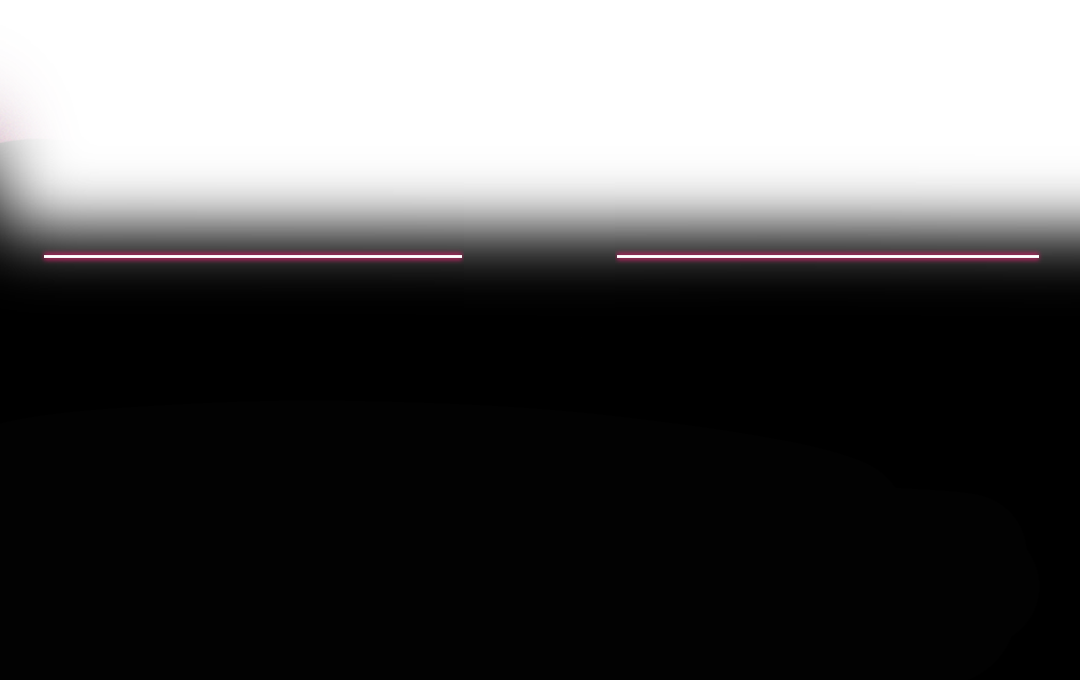
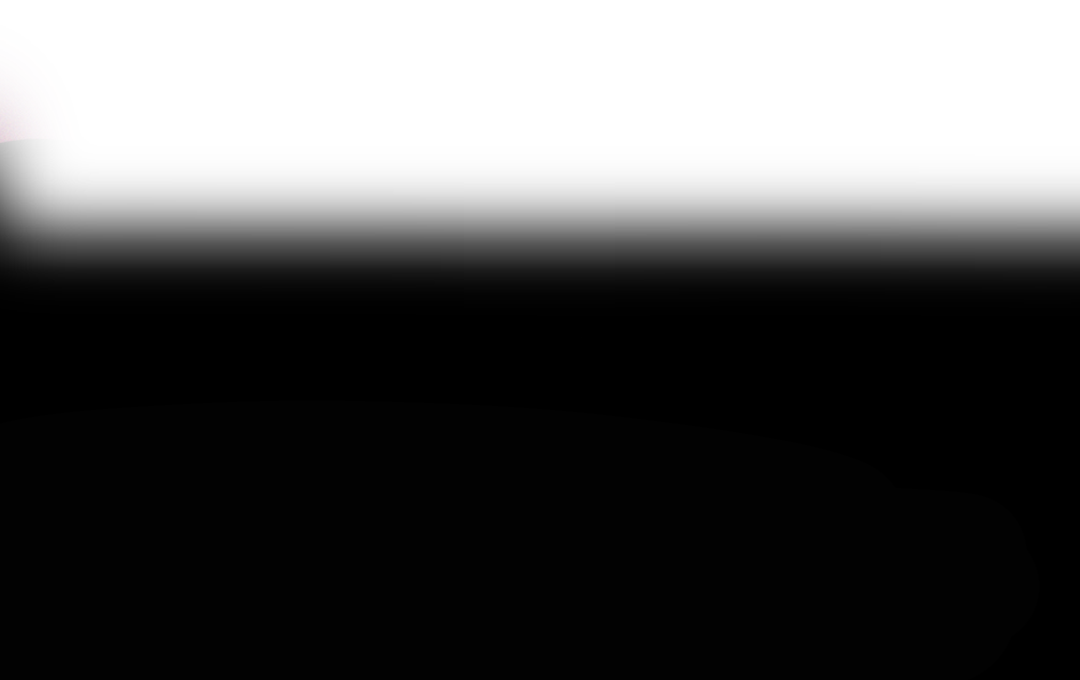
El halo de los filetes toma el color de la vertical
Cada filete es un nucleo blanco de 3 px mas un halo, y ese halo resulto
ser el rosa #cc1c65 a opacidad variable. Sale del overlay a dos mascaras
de 1080x25 (1,5 KB entre las dos): el halo se tiñe con source-in en un
lienzo auxiliar y el nucleo se pinta encima sin tocar.

La descomposicion va en premultiplicado. Hecha sobre el color recto el
halo salia un 10% mas claro, porque la mezcla con el fondo ocurre en
premultiplicado; con los valores correctos la banda reproduce el PSD con
1,84/255 de diferencia media, el mismo orden que antes del cambio.

Changed region(s): [[0.55, 0.3706, 0.9778, 0.4015], [0.0306, 0.3706, 0.4278, 0.4015]]

diff --git a/src/main.ts b/src/main.ts
@@ -4,6 +4,8 @@ import logoDeportes from "./assets/logo-deportes.png";
 import logoGamer from "./assets/logo-gamer.png";
 import logoMotor from "./assets/logo-motor.png";
 import logoPeludos from "./assets/logo-peludos.png";
+import ruleCoreUrl from "./assets/rule-core.png";
+import ruleGlowUrl from "./assets/rule-glow.png";
 import {
   CANVAS_H,
   CANVAS_W,
@@ -17,6 +19,7 @@ import {
   BADGE_SIZE,
   PHOTO_H,
   SWATCHES,
+  VERTICALS,
   type VerticalId,
   ZOOM_MAX,
   ZOOM_MIN,
@@ -75,6 +78,8 @@ if (!previewCtx || !resultCtx || !miniCtx) throw new Error("Este navegador no so
 let photo: HTMLImageElement | null = null;
 let photoSize: { width: number; height: number } | null = null;
 let overlay: HTMLImageElement | null = null;
+let ruleGlow: HTMLImageElement | null = null;
+let ruleCore: HTMLImageElement | null = null;
 const transform: PhotoTransform = { zoom: 1, offsetX: 0, offsetY: 0 };
 let inset: Inset | null = null;
 
@@ -103,6 +108,12 @@ function currentVertical(): VerticalId {
   return verticalEl.value as VerticalId;
 }
 
+/** Color de marca de la vertical elegida, para el halo de los filetes. */
+function currentColor(): string {
+  const v = VERTICALS.find((x) => x.id === currentVertical());
+  return v?.color ?? VERTICALS[0].color;
+}
+
 function loadImage(src: string): Promise<HTMLImageElement> {
   return new Promise((resolve, reject) => {
     const img = new Image();
@@ -113,12 +124,15 @@ function loadImage(src: string): Promise<HTMLImageElement> {
 }
 
 function draw(): void {
-  if (!overlay) return;
+  if (!overlay || !ruleGlow || !ruleCore) return;
   render(previewCtx!, {
     photo,
     photoSize,
     transform,
     overlay,
+    ruleGlow,
+    ruleCore,
+    ruleColor: currentColor(),
     logo: logos.get(currentVertical()) ?? null,
     logoSize: currentVertical() === "cabronazi" ? null : BADGE_SIZE,
     inset,
@@ -600,7 +614,7 @@ function stamp(): string {
 }
 
 generateEl.addEventListener("click", () => {
-  if (!overlay) return;
+  if (!overlay || !ruleGlow || !ruleCore) return;
   if (!photo) {
     setStatus("Añade una imagen antes de generar.", "error");
     return;
@@ -614,6 +628,9 @@ generateEl.addEventListener("click", () => {
     photoSize,
     transform,
     overlay,
+    ruleGlow,
+    ruleCore,
+    ruleColor: currentColor(),
     logo: logos.get(currentVertical()) ?? null,
     logoSize: currentVertical() === "cabronazi" ? null : BADGE_SIZE,
     inset,
@@ -648,13 +665,17 @@ downloadEl.addEventListener("click", () => {
 async function boot(): Promise<void> {
   buildSwatches();
   markSwatches();
-  const [ov, ...cargados] = await Promise.all([
+  const [ov, glow, core, ...cargados] = await Promise.all([
     loadImage(overlayUrl),
+    loadImage(ruleGlowUrl),
+    loadImage(ruleCoreUrl),
     ...Object.entries(LOGO_URLS).map(async ([id, url]) => {
       logos.set(id as VerticalId, await loadImage(url));
     }),
   ]);
   overlay = ov as HTMLImageElement;
+  ruleGlow = glow as HTMLImageElement;
+  ruleCore = core as HTMLImageElement;
   void cargados;
   // Sin esperar a la fuente, el primer render saldria con la tipografia de respaldo.
   try {

diff --git a/src/render.ts b/src/render.ts
@@ -15,6 +15,8 @@ import {
   LINE_RATIO,
   OVERLAY_Y,
   PHOTO_H,
+  RULE_H,
+  RULE_Y,
   TEXT_MAX_W,
   TEXT_SAFE_BOTTOM,
   TEXT_SAFE_TOP,
@@ -53,6 +55,11 @@ export interface RenderOptions {
   photoSize: { width: number; height: number } | null;
   transform: PhotoTransform;
   overlay: CanvasImageSource;
+  /** Mascaras de los filetes: halo teñible y nucleo blanco fijo. */
+  ruleGlow: CanvasImageSource;
+  ruleCore: CanvasImageSource;
+  /** Color del halo de los filetes: el de la vertical elegida. */
+  ruleColor: string;
   /** Logo de la vertical. Va aparte del overlay para poder cambiarlo. */
   logo: CanvasImageSource | null;
   /** Lado del logo, o null para dejar la mascota a su tamaño original. */
@@ -265,6 +272,39 @@ function drawInset(
   ctx.restore();
 }
 
+/** Lienzo auxiliar donde se tiñe el halo. Se reaprovecha entre pintadas. */
+let tintCanvas: HTMLCanvasElement | null = null;
+
+/**
+ * Pinta los dos filetes. El halo es una mascara que se tiñe con el color de la
+ * vertical; el nucleo blanco va encima y no cambia nunca.
+ */
+function drawRules(
+  ctx: CanvasRenderingContext2D,
+  glow: CanvasImageSource,
+  core: CanvasImageSource,
+  color: string,
+): void {
+  tintCanvas ??= document.createElement("canvas");
+  const t = tintCanvas;
+  if (t.width !== CANVAS_W || t.height !== RULE_H) {
+    t.width = CANVAS_W;
+    t.height = RULE_H;
+  }
+  const tc = t.getContext("2d");
+  if (!tc) return;
+  tc.clearRect(0, 0, CANVAS_W, RULE_H);
+  tc.globalCompositeOperation = "source-over";
+  tc.drawImage(glow, 0, 0, CANVAS_W, RULE_H);
+  // "source-in" cambia el color conservando el alfa: eso tiñe la mascara.
+  tc.globalCompositeOperation = "source-in";
+  tc.fillStyle = color;
+  tc.fillRect(0, 0, CANVAS_W, RULE_H);
+
+  ctx.drawImage(t, 0, RULE_Y, CANVAS_W, RULE_H);
+  ctx.drawImage(core, 0, RULE_Y, CANVAS_W, RULE_H);
+}
+
 /** Pinta la noticia completa en el contexto dado, a tamaño 1080x1350. */
 export function render(ctx: CanvasRenderingContext2D, opts: RenderOptions): void {
   ctx.save();
@@ -286,6 +326,8 @@ export function render(ctx: CanvasRenderingContext2D, opts: RenderOptions): void
   if (opts.inset) drawInset(ctx, opts.inset, opts.colorRing);
 
   ctx.drawImage(opts.overlay, 0, OVERLAY_Y, CANVAS_W, CANVAS_H - OVERLAY_Y);
+
+  drawRules(ctx, opts.ruleGlow, opts.ruleCore, opts.ruleColor);
 
   if (opts.logo) {
     ctx.imageSmoothingEnabled = true;

diff --git a/src/format.ts b/src/format.ts
@@ -105,16 +105,26 @@ export const LOGO_CY = LOGO_Y + LOGO_H / 2;
  */
 export const BADGE_SIZE = LOGO_H;
 
-/** Las verticales, en el orden en que salen en el desplegable. */
+/**
+ * Las verticales, en el orden en que salen en el desplegable. El color es el
+ * dominante de cada logo, y tiñe tambien el halo de los filetes.
+ */
 export const VERTICALS = [
-  { id: "cabronazi", label: "Cabronazi" },
-  { id: "peludos", label: "Cabropeludos" },
-  { id: "gamer", label: "Cabrogamer" },
-  { id: "deportes", label: "Cabrodeportes" },
-  { id: "motor", label: "Cabromotor" },
+  { id: "cabronazi", label: "Cabronazi", color: "#cc1c65" },
+  { id: "peludos", label: "Cabropeludos", color: "#890081" },
+  { id: "gamer", label: "Cabrogamer", color: "#003392" },
+  { id: "deportes", label: "Cabrodeportes", color: "#00ce5c" },
+  { id: "motor", label: "Cabromotor", color: "#ed282b" },
 ] as const;
 
 export type VerticalId = (typeof VERTICALS)[number]["id"];
+
+/**
+ * Banda de los filetes, separada del overlay para poder teñir el halo. El
+ * nucleo blanco y el halo van en dos mascaras, porque solo el halo cambia.
+ */
+export const RULE_Y = 914;
+export const RULE_H = 25;
 
 /**
  * Colores preestablecidos de los selectores. Blanco y amarillo son los del

diff --git a/README.md b/README.md
@@ -6,7 +6,8 @@ escribes el titular, y produce el PNG **1080 × 1350** listo para publicar.
 ## Uso
 
 1. Elige la **vertical**. Cambia el logo central por el distintivo de esa
-   cuenta; Cabronazi viene puesto por defecto.
+   cuenta y tiñe el halo de los filetes con su color; Cabronazi viene puesto
+   por defecto.
 2. Arrastra una foto (o elígela con el botón).
 3. Ajusta el encuadre: el deslizador hace zoom, y arrastrando sobre la vista
    previa mueves la imagen.
@@ -110,6 +111,18 @@ overlay original es de 0,002 / 255 de media.
 Los distintivos de las demás verticales son circulares y se escalan al alto de
 la mascota (127 px), centrados en el hueco entre filetes. Así ocupan lo mismo y
 no hay que tocar `TEXT_SAFE_TOP`.
+
+Los filetes salieron del overlay por el mismo motivo. Cada uno es un núcleo
+blanco de 3 px con un halo alrededor, y ese halo resultó ser el rosa `#cc1c65` a
+opacidad variable, así que se puede teñir con el color de cada vertical. Van en
+dos máscaras, `rule-glow.png` y `rule-core.png`, de 1080 × 25 px y apenas 1,5 KB
+entre las dos: el halo se tiñe en un lienzo auxiliar con `source-in` y el núcleo
+se pinta encima sin tocarlo.
+
+**La descomposición hay que hacerla en premultiplicado.** Haciéndola sobre el
+color recto el halo sale un 10 % más claro, porque la mezcla con el fondo ocurre
+en premultiplicado. Con los valores correctos, la banda del filete reproduce el
+PSD con 1,84 / 255 de diferencia media.
 
 ## Fuente
 
